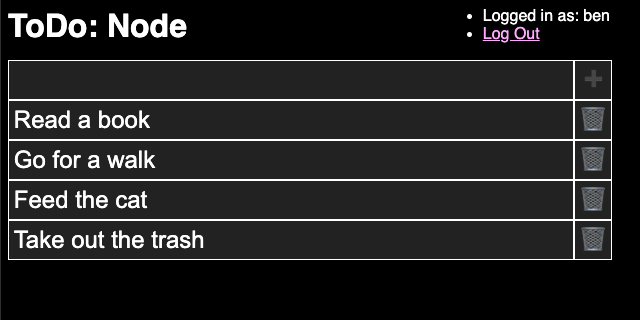
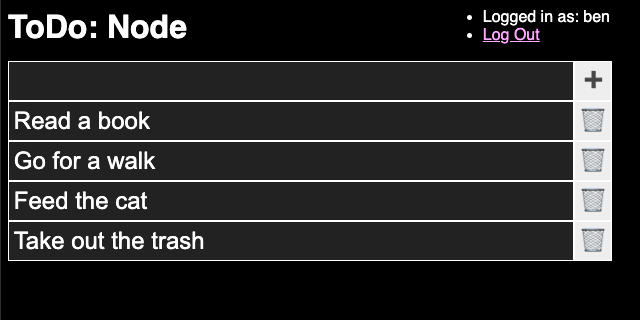
Improve button contrast in dark mode.

diff --git a/public/css/main.css b/public/css/main.css
@@ -81,4 +81,7 @@ input {
         background: #222;
         color: white;
     }
+    button {
+        background-color: #eee;
+    }
 }
